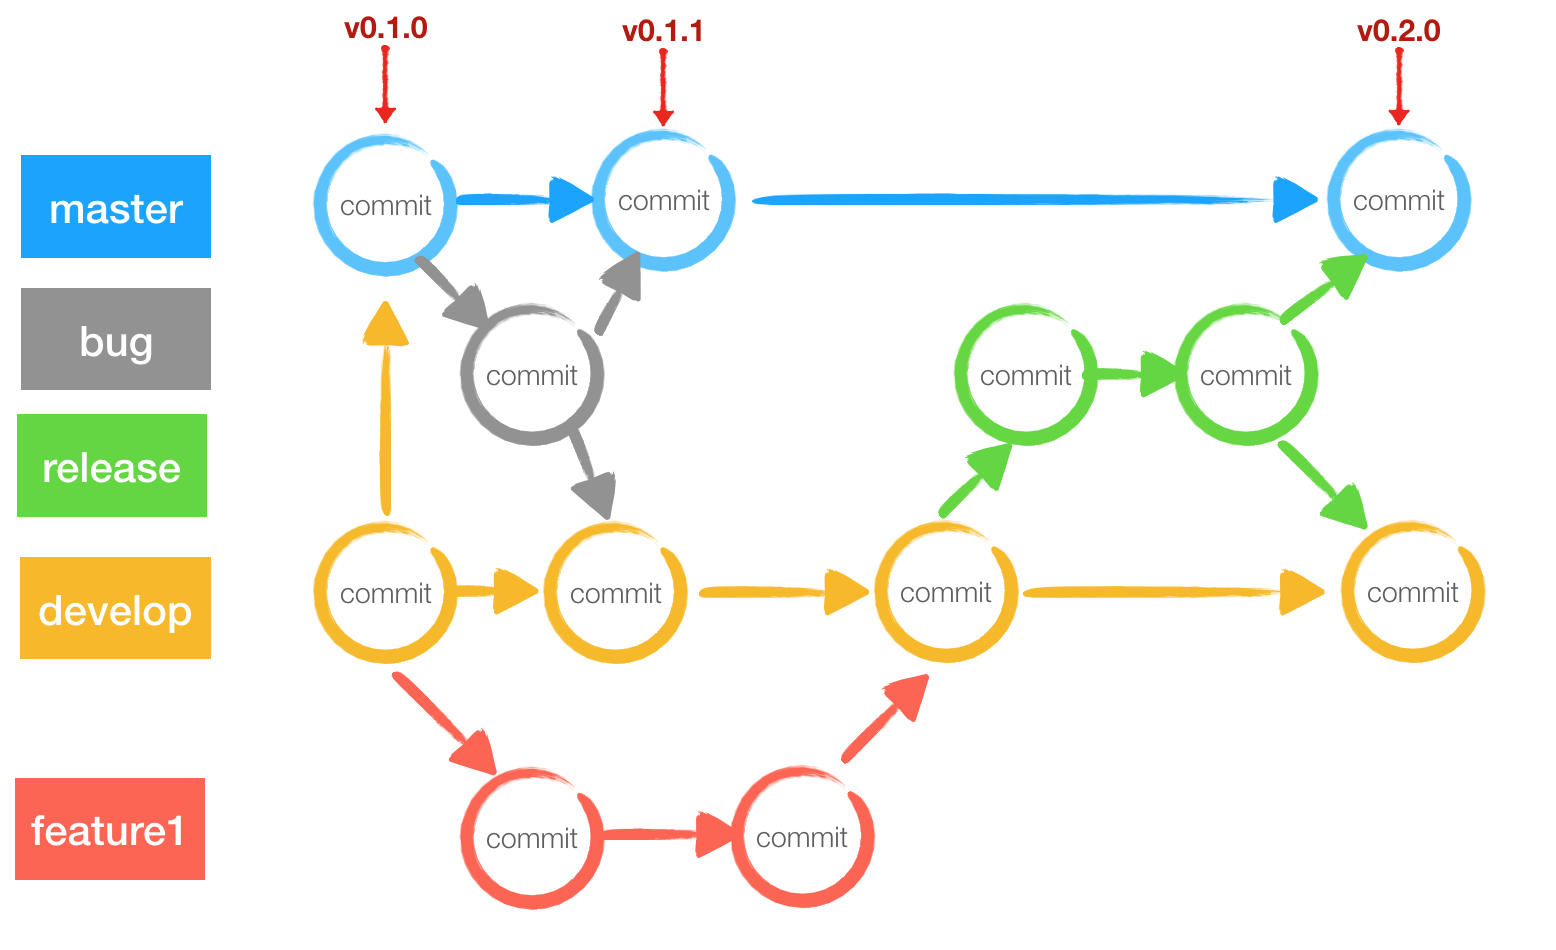
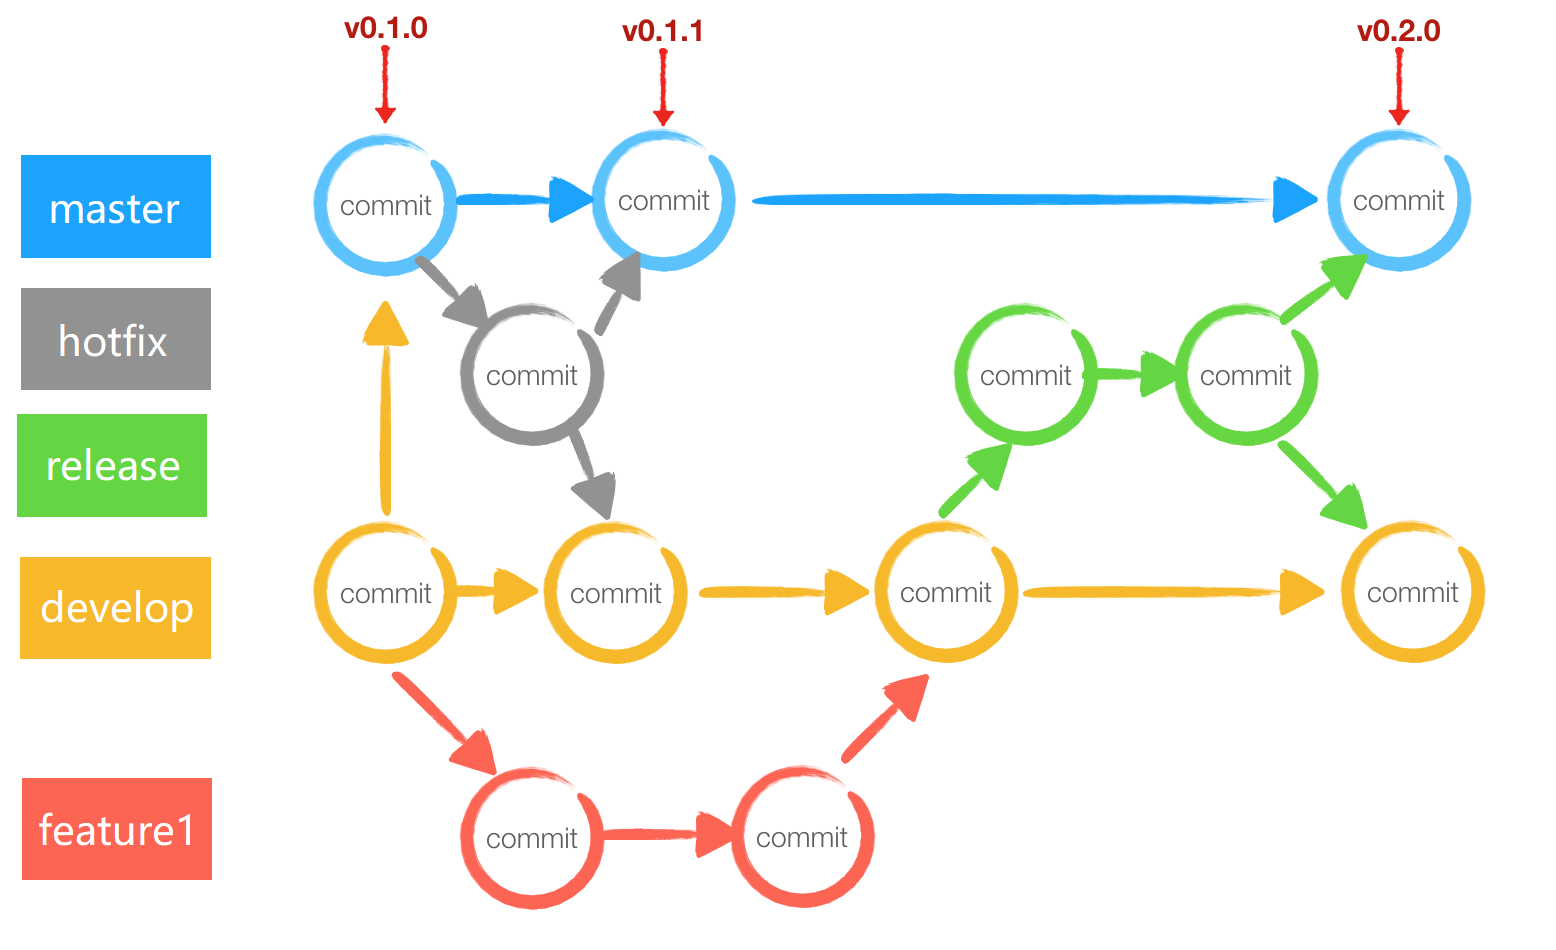
docs(style-guide): update article: version-control

diff --git a/docs/style-guide/version-control/git-workflow.md b/docs/style-guide/version-control/git-workflow.md
@@ -4,46 +4,58 @@
 
 设想这样一个场景：某企业的开发团队使用 Git 管理日常开发工作，最初开发团队的代码有一条主干分支（master/main）。后来为了开发新功能，从主干分支拉出一条特性分支，但新功能完成后，该特性分支没有合入主干分支，而是作为下次开发的主干分支，重新拉出一条新的特性分支，导致主干分支一直形同虚设，团队没有一条稳定的代码分支。
 
-这个问题很大程度上源于团队对分支策略的不了解，导致分支策略使用很混乱。因此，本文总结目前主流的几种 Git 工作流 —— 分支策略，方便团队开发时，根据自身情况选择最合适的方案。
+这个问题很大程度上源于团队对分支策略的不了解，导致分支策略使用很混乱。因此，我们需要采用 Git 工作流 —— 分支策略来此类问题。
 
-## 常见的分支策略
+目前业界常见的 Git 分支策略主要有：GitFlow、GitHubFlow 以及 GitLabFlow，本文一一作介绍，方便团队开发时，根据自身情况选择最合适的方案。
 
-目前业界 Git 工作流主要有：GitFlow、GitHubFlow 以及 GitLabFlow。
-
-### Git Flow
+## GitFlow 策略
 
 GitFlow 是这三种分支策略中最早出现的。
 
 GitFlow 通常包含五种类型的分支：`master` 分支、`develop` 分支、`feature` 分支、`release` 分支以及 `hotfix` 分支。
 
-* **master 分支**：主干分支，这是一个稳定的分支，又称为保护分支，表示正式发布的历史，所有对外正式版本发布都会合并到这里，并打上版本标签。通常情况下只允许其他分支将代码合入，不允许向 `master` 分支直接提交代码。
-* **develop 分支**：开发分支，用来用来整合功能分支，表示最新的开发状态。包含要发布到下一个 `release` 的代码。
-* **feature 分支**：功能分支，通常从 `develop` 分支拉出，每个新功能的开发对应一个功能分支，用于开发人员提交代码并进行自测。自测完成后，会将 `feature` 分支的代码合并至 `develop` 分支，进入下一个 `release`。
-* **release 分支**：发布分支，发布新版本时，基于 `develop` 分支创建，从此刻开始新的功能不会加到这个分支，这个分支只应该做 bug 修复、文档生成和其他面向发布的任务。当发布分支足够稳定后，它的生命周期就可以结束了，这时候将 `release` 分支 合并到 `master` 分支，然后打上 tag 版本号；接着还需要将 `release` 分支合并回 `develop` 分支。
-* **hotfix 分支**：热修复分支，生产环境发现新 bug 时创建的临时分支，问题验证通过后，合并到 `master` 和 `develop` 分支。
+### 分支定义
+
+**master 分支**：主干分支，这是一个稳定的分支，又称为保护分支，表示正式发布的历史，所有对外正式版本发布都会合并到这里，并打上版本标签。通常情况下只允许其他分支将代码合入，不允许向 `master` 分支直接提交代码。
 
 > 注意每次合并到 `master` 都要打上 tag，方便定位。
 
+**develop 分支**：开发分支，用来用来整合功能分支，表示最新的开发状态。包含要发布到下一个 `release` 的代码。
+
+**feature 分支**：功能分支，通常从 `develop` 分支拉出，每个新功能的开发对应一个功能分支，用于开发人员提交代码并进行自测。自测完成后，会将 `feature` 分支的代码合并至 `develop` 分支，进入下一个 `release`。
+
+**release 分支**：发布分支，发布新版本时，基于 `develop` 分支创建，从此刻开始新的功能不会加到这个分支，这个分支只应该做 bug 修复、文档生成和其他面向发布的任务。当发布分支足够稳定后，它的生命周期就可以结束了，这时候将 `release` 分支 合并到 `master` 分支，然后打上 tag 版本号；接着还需要将 `release` 分支合并回 `develop` 分支。
+
 > `release` 分支可以删掉，因为在 `master` 上打了 tag，即使删掉了发布分支，你也可以很方便的重新创建一个：
 > ```bash
-> # 基于tag v1.0. 0创建一个分支
+> # 基于 tag v1.0. 0 创建一个分支
 > $ git checkout -b release/v1.0.0 v1.0.0
 > ```
+> release 分支是 develop 和 master 之间的缓冲区，对于一个发布，往往会在发布分支中停留一段时间，等待稳定后才合并到 master。  
+> release 分支使得团队可以在完善当前发布版本的同时，不阻拦新功能的开发。
 
-通常开发过程中新特性的开发过程如下：
+**hotfix 分支**：热修复分支，生产环境发现新 bug 时创建的临时分支，这些 bug 可能比较紧急，而且跨越多个分支，所以可以创建一个 `hotfix` 分支快速修复 `master` 上面的 bug。问题验证通过后，合并到 `master` 和 `develop` 分支，并打上 tag。
 
-* 从 develop 分支拉取一条 feature 分支，开发团队在 feature 分支上进行新功能开发。
-* 开发完成后，将 feature 分支合入到 develop 分支，并进行开发环境的验证。
-* 开发环境验证完成，从 develop 分支拉取一条 release 分支，到测试环境进行 SIT/UAT 测试。
-* 测试无问题后，可将 develop 分支合入 master 分支。
-* 待发版时，直接将 master 分支代码部署到生产环境。
+> `hotfix` 分支是唯一一个可以从 `master` 分叉出来的分支类型。
+
+### 开发流程
+
+通常开发过程中新功能的开发过程如下：
+
+* 从 `develop` 分支拉取一条 `feature` 分支，开发团队在 `feature` 分支上进行新功能开发。
+* 开发完成后，将 `feature` 分支合入到 `develop` 分支，并进行开发环境的验证。
+* 开发环境验证完成，从 `develop` 分支拉取一条 `release` 分支，到测试环境进行 SIT/UAT 测试。
+* 测试无问题后，可将 `develop` 分支合入 `master` 分支。
+* 待发版时，直接将 `master` 分支代码部署到生产环境。
 
 可参考下图：
 
 <div style="text-align: center;">
   <img src="./assets/gitflow.png" alt="GitFlow">
-  <p style="text-align: center; color: #888;">（GitFlow，图来源于网络）</p>
+  <p style="text-align: center; color: #888;">（GitFlow 示意图）</p>
 </div>
+
+### 优缺点
 
 GitFlow 的优点：
 
@@ -57,23 +69,37 @@ GitFlow 的缺点：
 * 违反 Git 提倡的 short-lived 分支原则。
 * 如果特性分支过多的话很容易造成代码冲突，从而提高了合入的成本。
 * 由于每次提交都涉及多个分支，所以 GitFlow 也太不适合提交频率较高的项目。
-* master 分支历史记录并不干净，只能通过打 Tag 标记哪些是 master 真正要部署的。
+* master 分支历史记录并不干净，只能通过打 tag 标记哪些是 master 真正要部署的。
 * 对持续部署和 [Monorepo](https://zhuanlan.zhihu.com/p/77577415) 仓库不友好。
 
-### GitHubFlow
+## GitHubFlow 策略
 
 GitHubFlow 看名字也知道和 GitHub 有关，它来源于 GitHub 团队的工作实践。当代码托管在 GitHub 上时，则需要使用 GitHubFlow。相比 GitFlow 而言，GitHubFlow 没有那么多分支。
 
-GitHubFlow 通常只有一个 master 分支是固定的（[现在被更名为 main 了](https://github.com/github/renaming)），而且 GitHubFlow 中的 master 分支通常是受保护的，只有特定权限的人才可以向 master 分支合入代码。
+GitHubFlow 通常只有一个 `master` 分支是固定的（[现在被更名为 main 了](https://github.com/github/renaming)），而且 GitHubFlow 中的 `master` 分支通常是受保护的，只有特定权限的人才可以向 `master` 分支合入代码。
 
-在 GitHubFlow 中，新功能开发或修复 Bug 需要从 master 分支拉取一个新分支，在这个新分支上进行代码提交；功能开发完成，开发者创建 Pull Request（简称 PR），通知源仓库开发者进行代码修改 Review，确认无误后，将由源仓库开发人员将代码合入 master 分支。
+### 适用场景
+
+* 适合开源项目。开源项目需要接受任何开发者的代码共享，无需给他们正式的代码库的写权限。
+* 适合大型的，自发性的团队。fork 的方式可以提供灵活的方式来安全协作。
+
+### 开发流程
+
+* 在 GitHubFlow 中，要求每个成员先 fork 项目到自己的目录（fork 的本质就是让 GitHub 将项目克隆到你的个人目录）。
+* 每次有新功能开发或修复 bug 时，需要从 `master` 分支拉取一个新的 `feature` 分支，在这个新分支上进行代码提交。
+* 功能开发完成，开发者创建 `feature` 分支合并到上游（upstream）项目的 Pull Request（简称 PR），通知源仓库开发者进行代码修改 Review。
+* 上游项目的所有者决定是否合并你的代码，如果确认无误，他会将代码合入 `master` 分支。
+
+可参考下图：
 
 <div style="text-align: center;">
   <img src="./assets/githubflow.png" alt="GitHubFlow">
-  <p style="text-align: center; color: #888;">（GitHubFlow，图来源于网络）</p>
+  <p style="text-align: center; color: #888;">（GitHubFlow 示意图）</p>
 </div>
 
 很多人可能会问，提交代码通常是 `commit` 或者 `push`，拉取代码才是 `pull`，为什么 GitHubFlow 中提交代码是「Pull Request」。因为在 GitHubFlow 中，PR 是通知其他人员到你的代码库去拉取代码至本地，然后由他们进行最终的提交，所以用 `pull` 而非 `push`。
+
+### 优缺点
 
 GitHubFlow 的优点：
 
@@ -83,13 +109,13 @@ GitHubFlow 的缺点：
 
 * 因为只有一条 master 分支，万一代码合入后，由于某些因素 master 分支不能立刻发布，就会导致最终发布的版本和计划不同。
 
-### GitLabFlow
+## GitLabFlow 策略
 
 GitLabFlow 出现的最晚，GitLabFlow 是开源工具 GitLab 推荐的做法。
 
 GitLabFlow 支持 GitFlow 的分支策略，也支持 GitHubFlow 的「Pull Request」（在 GitLabFlow 中被称为「Merge Request」）。
 
-相比于 GitHubFlow，GitLabFlow 增加了对预生产环境和生产环境的管理，即 master 分支对应为开发环境的分支，预生产和生产环境由其他分支（如 pre-production、production）进行管理。在这种情况下，master 分支是 pre-production 分支的上游，pre-production 是 production 分支的上游；GitLabFlow 规定代码必须从上游向下游发展，即新功能或修复 Bug 时，特性分支的代码测试无误后，必须先合入 master 分支，然后才能由 master 分支向 pre-production 环境合入，最后由 pre-production 合入到 production。
+相比于 GitHubFlow，GitLabFlow 增加了对预生产环境和生产环境的管理，即 `master` 分支对应为开发环境的分支，预生产和生产环境由其他分支（如 `pre-production`、`production`）进行管理。在这种情况下，`master` 分支是 `pre-production` 分支的上游，`pre-production` 是 `production` 分支的上游；GitLabFlow 规定代码必须从上游向下游发展，即新功能或修复 bug 时，特性分支的代码测试无误后，必须先合入 `master` 分支，然后才能由 `master` 分支向 `pre-production` 环境合入，最后由 `pre-production` 合入到 `production`。
 
 基于环境：
 
@@ -115,6 +141,8 @@ GitLabFlow 中的 Merge Request 是将一个分支合入到另一个分支的请
 GitLabFlow 并不像 GitFlow、GitHubFlow 一样具有明显的规范，它更多是在 GitHubFlow 基础上，综合考虑环境部署、项目管理等问题而得出的一种实践。
 
 ## 团队定制的分支策略
+
+比较流行的 Git 分支策略是 GitFlow，但是大部分团队会根据自己的情况制定自己的 Git 工作流规范，例如我们团队的分支规范：
 
 ## 总结
 
